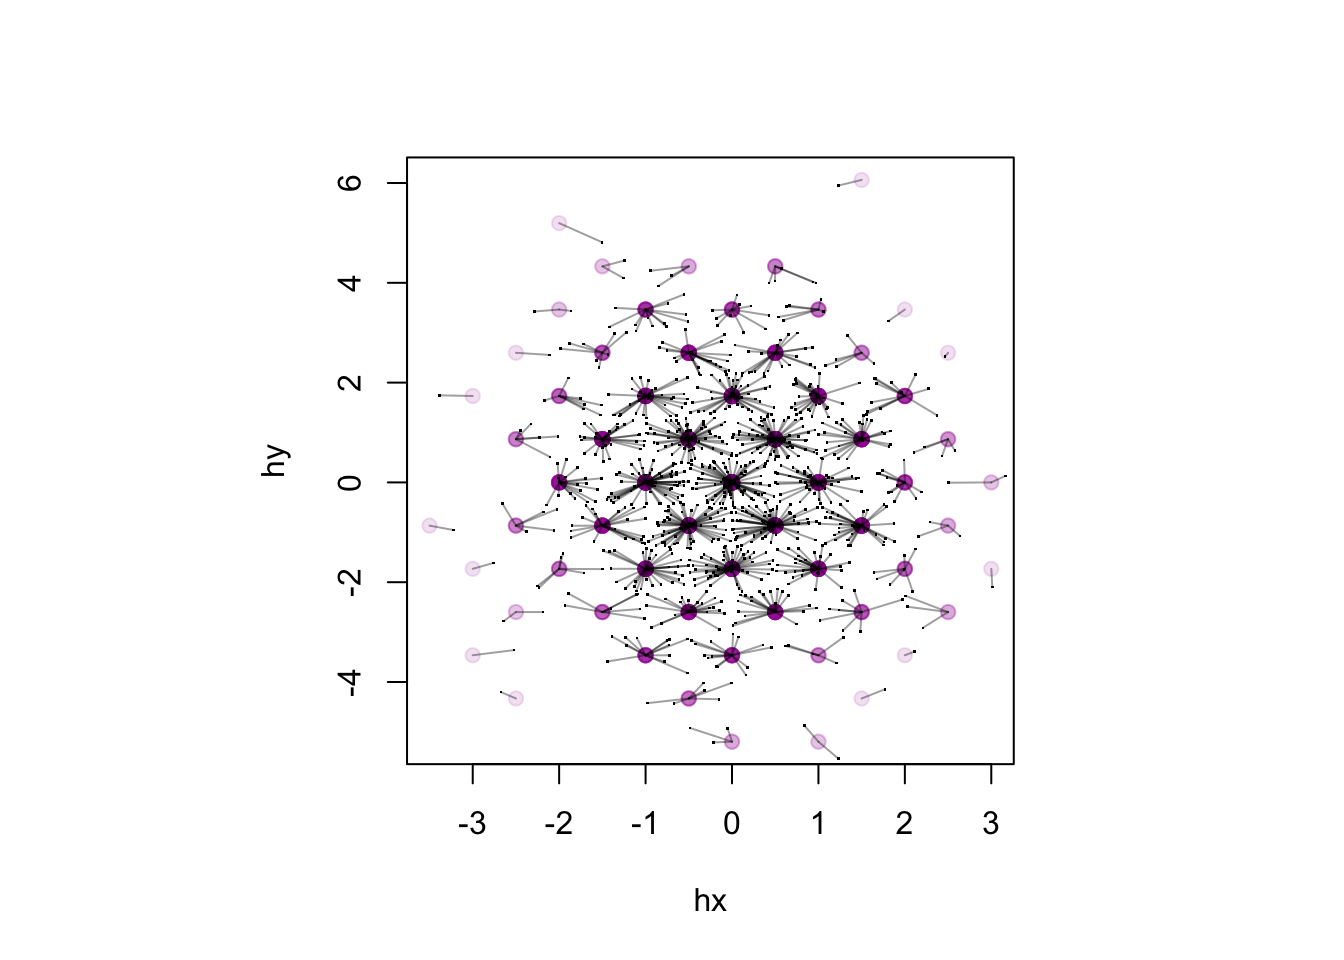
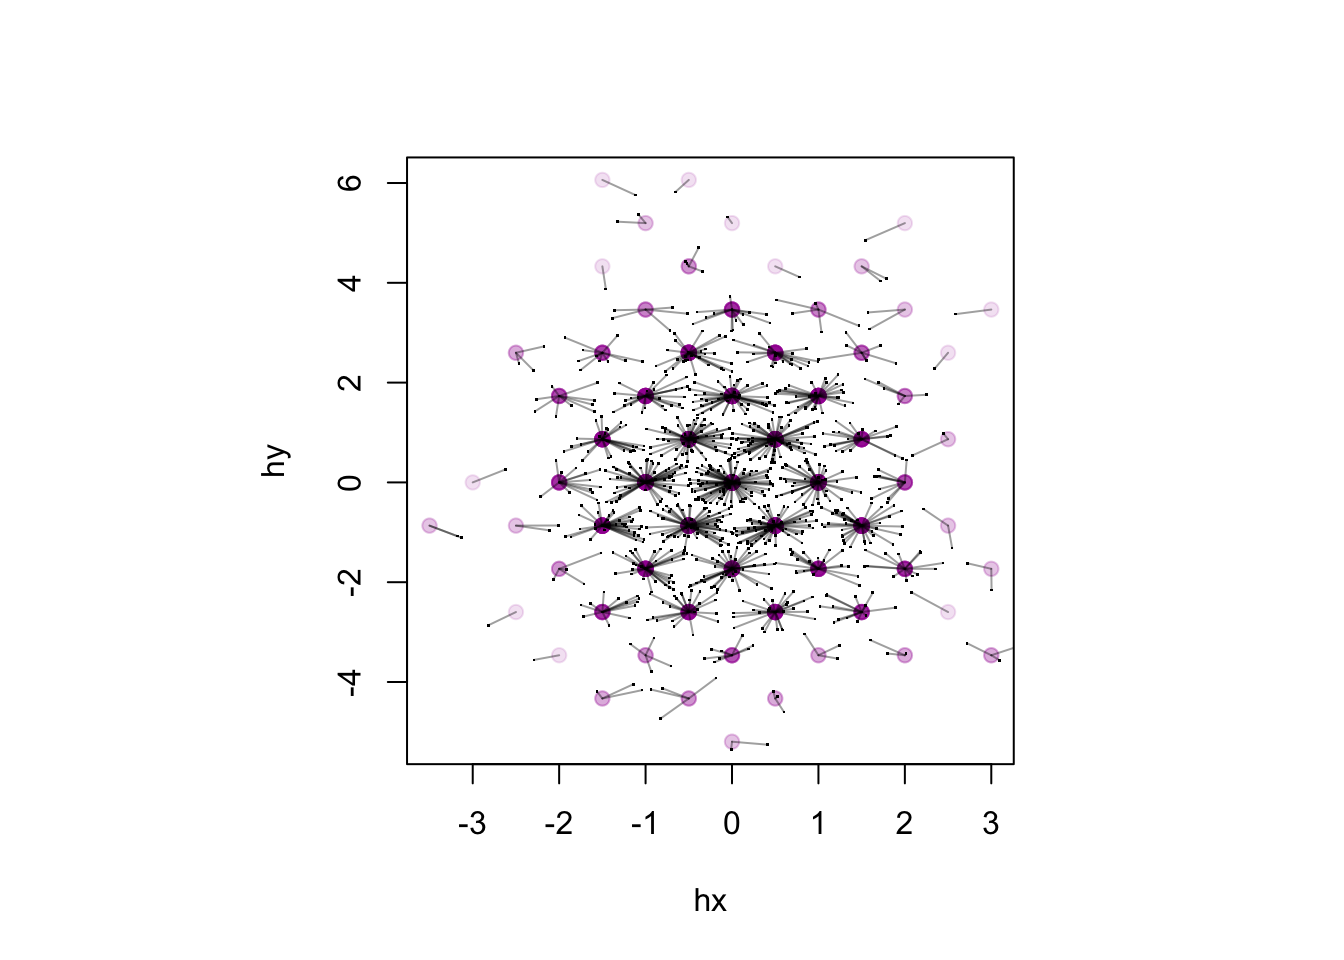
rebuild

diff --git a/content/post/2018-6-9gwas.html b/content/post/2018-6-9gwas.html
@@ -12,9 +12,9 @@ output: html_document
 <img src="/post/2018-6-9gwas_files/GWAS_Catalog_diagram.jpg" style="width:95.0%" />
 
 </div>
-<p>There are two chromosomes with many fewer associations. One is the Y chromosome. There isn’t much there because there isn’t much there. The other is the X chromosome. There isn’t much there because GWAS took a lot longer to get started for the X chromosome, and that’s mostly for software reasons.</p>
+<p>There are two chromosomes with many fewer associations. One is the Y chromosome. There isn’t much there because there isn’t much there. The other is the X chromosome. There isn’t much there because GWAS took a lot longer to get started for the X chromosome, and that’s partly for software reasons.</p>
 <p>One of the important steps in GWAS consortia was imputation. Different research groups used different SNP chips, but they all had pretty good coverage of the genome, and all the sets of results could be imputed for a common set of SNPs – typically 2.5 million from the HapMap project.</p>
 <p>The first step in imputation is to estimate haplotypes: you’ve got two copies of each chromosome, and the SNPchips don’t know which allele came from which copy. The software ran into trouble for the X chromosome, because while women have two copies of the X chromosome, men only have one. There were work-arounds, but for a while most people ignored the X chromosome because they (we) were in a hurry.</p>
-<p>Another fairly simple software-related obstacle was the handling of X-chromosome inactivation. If you have two X chromosomes, one of them will mostly be switched off, with the choice being effectively random. The patches of inactivation are small enough that most tissues have close to 50:50 representation of each of the chromosomes. For the additive genetic models we mostly used, you can sensibly code the number of copies of an allele on the X chromosome as 0, 1/2, 1 for women and 0,1 for men. But the default in PLINK was the less-desirable 0,1,2 for women and 0,1 for men, leading people to want sex-specific analyses with more work and lower power and more wor</p>
+<p>Another fairly simple software-related obstacle was the handling of X-chromosome inactivation. If you have two X chromosomes, one of them will mostly be switched off, with the choice being effectively random. The patches of inactivation are small enough that most tissues have close to 50:50 representation of each of the chromosomes. For the additive genetic models we mostly used, you can sensibly code the number of copies of an allele on the X chromosome as 0, 1/2, 1 for women and 0,1 for men. But the default in PLINK was the less-desirable 0,1,2 for women and 0,1 for men, leading people to want sex-specific analyses with more work and lower power.</p>
 <p>Software isn’t the only issue: there was a lot of reluctance in some groups to pool X-chromosome data for males and females. I think this is misguided, both because of X-chromosome inactivation and because even if alleles on the X-chromosome are more <em>likely</em> to have sex-specific effects, there’s still a lot of ordinary genes there.</p>
 <p>Anyway, even now, more than ten years after the Wellcome Trust study there’s still less known from GWAS of the X chromosome than the other 22 major chromosomes. And a definite part of that is availability of software.</p>

diff --git a/content/post/2018-6-5surveysindb.html b/content/post/2018-6-5surveysindb.html
@@ -1,7 +1,7 @@
 ---
 title: "Survey analysis in SQL"
 author: "Thomas Lumley"
-date: 2018-06-06
+date: 2018-06-09
 output: html_document
 ---
 
@@ -38,21 +38,21 @@ tibble(x,y) %&gt;%
    mutate(d1=(x-x1)^2+3*(y-y1)^2, d2=(x-x2)^2+3*(y-y2)^2) %&gt;%
    mutate(hx=if_else(d1&lt;d2,x1,x2), hy=if_else(d1&lt;d2,y1,y2)) %&gt;%
    group_by(hx,hy) %&gt;% summarise(count=n())</code></pre>
-<pre><code>## # A tibble: 64 x 3
+<pre><code>## # A tibble: 65 x 3
 ## # Groups:   hx [?]
 ##       hx     hy count
 ##    &lt;dbl&gt;  &lt;dbl&gt; &lt;int&gt;
-##  1  -3.5 -0.866     1
-##  2  -3   -3.46      1
-##  3  -3   -1.73      1
-##  4  -3    1.73      1
-##  5  -2.5 -4.33      1
-##  6  -2.5 -2.60      2
-##  7  -2.5 -0.866     5
-##  8  -2.5  0.866     5
-##  9  -2.5  2.60      1
-## 10  -2   -1.73      6
-## # ... with 54 more rows</code></pre>
+##  1  -3.5 -0.866     2
+##  2  -3    0         1
+##  3  -2.5 -2.60      1
+##  4  -2.5 -0.866     2
+##  5  -2.5  2.60      3
+##  6  -2   -3.46      1
+##  7  -2   -1.73      4
+##  8  -2    0        12
+##  9  -2    1.73      9
+## 10  -1.5 -4.33      3
+## # ... with 55 more rows</code></pre>
 <p>And once you’ve got in <code>dplyr</code>, you can just run it in <code>dbplyr</code> to do the computations in the database</p>
 <p>For survey data, we want <code>summarise(count=sum(weights))</code> rather than <code>summarise(count=n())</code> so that the hex size depends on the estimated population size rather than the sample size, but otherwise it’s the same. That actually simplifies the edge-effect problem, as you can just add a point with zero weight at each potential hex center.</p>
 <p>And here’s a small example,</p>
